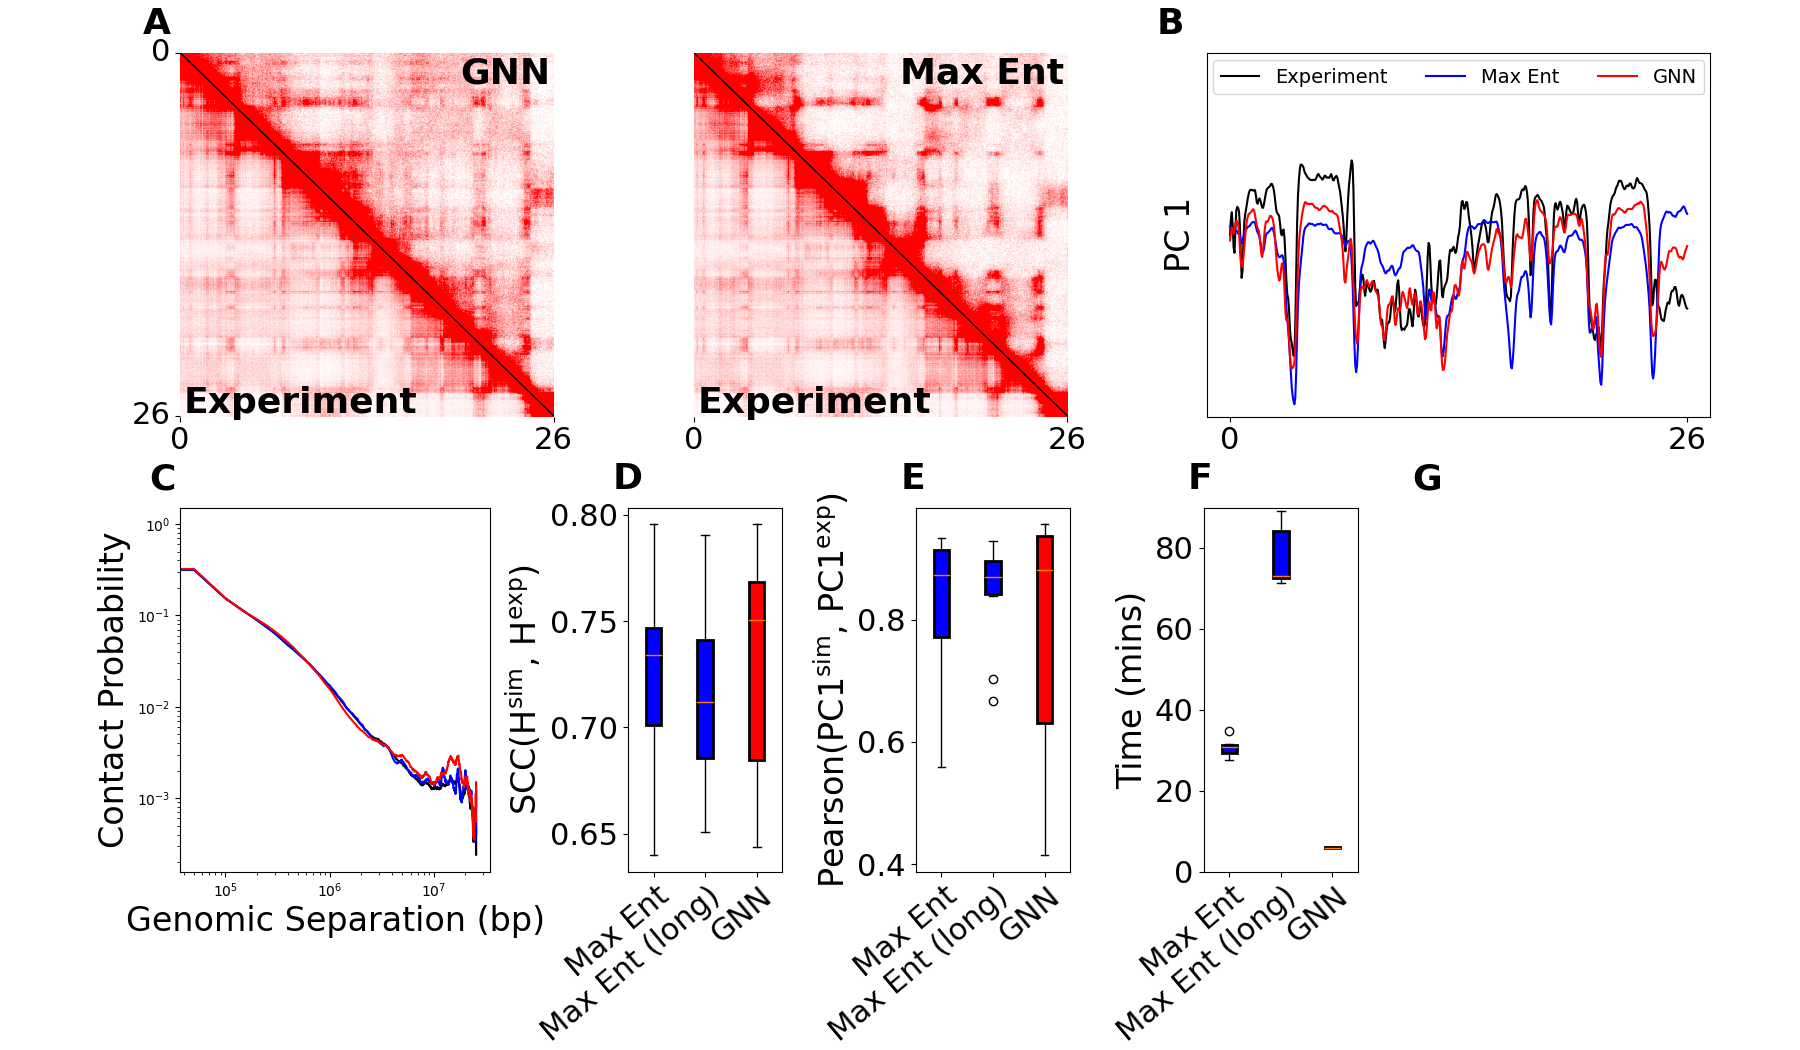
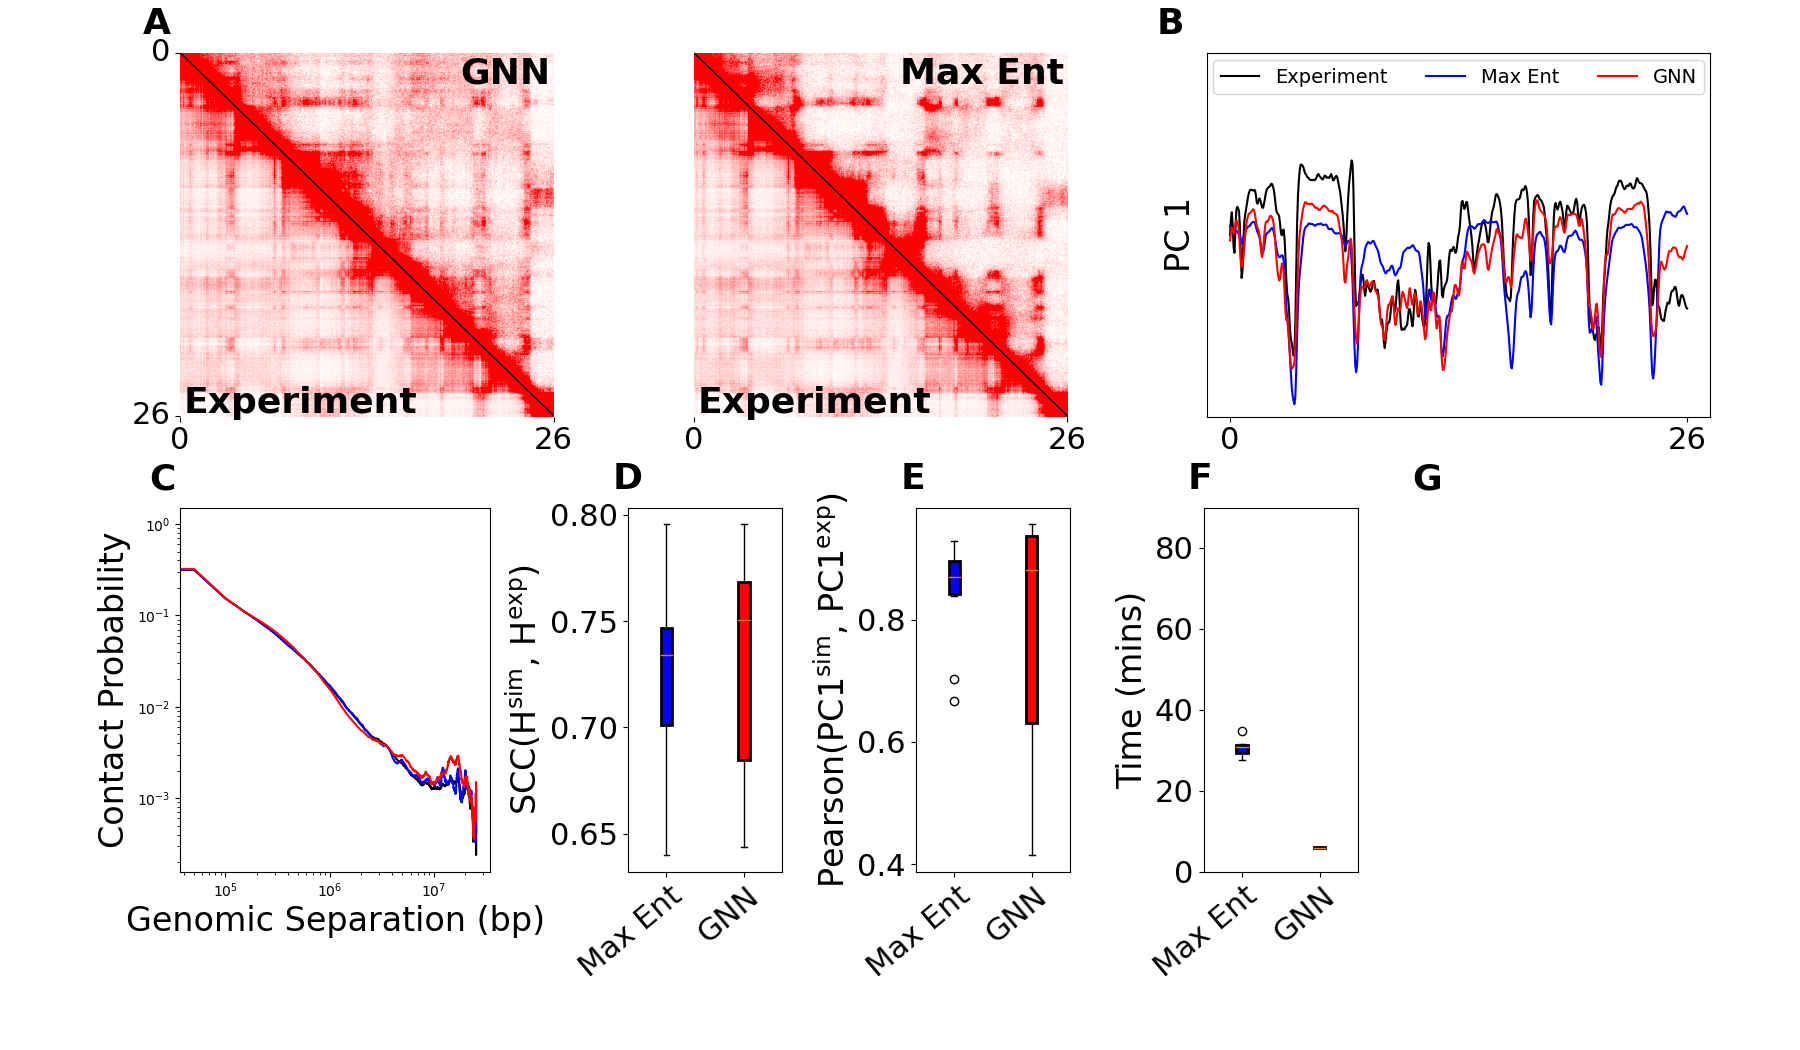
change

diff --git a/scripts/figure.py b/scripts/figure.py
@@ -303,7 +303,7 @@ def figure(test=False):
 
     # time and scc
     labels = ['Max Ent', 'GNN']
-    ticks = range(1, 4)
+    ticks = range(1, len(labels)+1)
     data = [max_ent_sccs, gnn_sccs]
     print(max_ent_sccs, np.mean(max_ent_sccs))
     print(gnn_sccs, np.mean(gnn_sccs))
@@ -330,7 +330,7 @@ def figure(test=False):
     ax8.set_ylabel('Time (mins)', fontsize=label_fontsize)
 
     # fill with colors
-    colors = ['b', 'b', 'r']
+    colors = ['b', 'r']
     for bplot in [b1, b2, b3]:
         for patch, color in zip(bplot['boxes'], colors):
             patch.set_facecolor(color)
